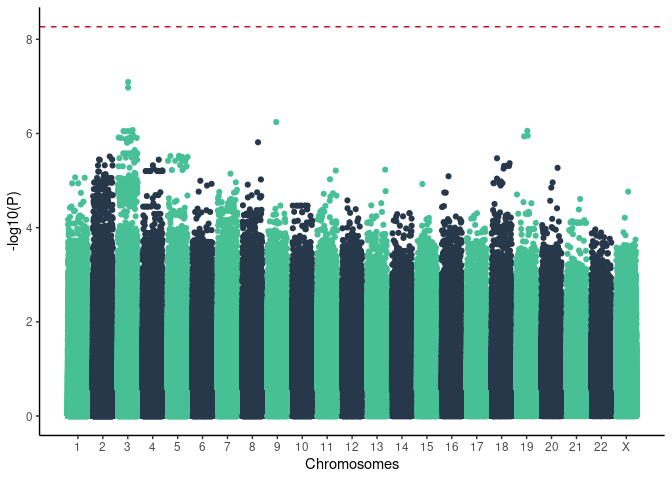
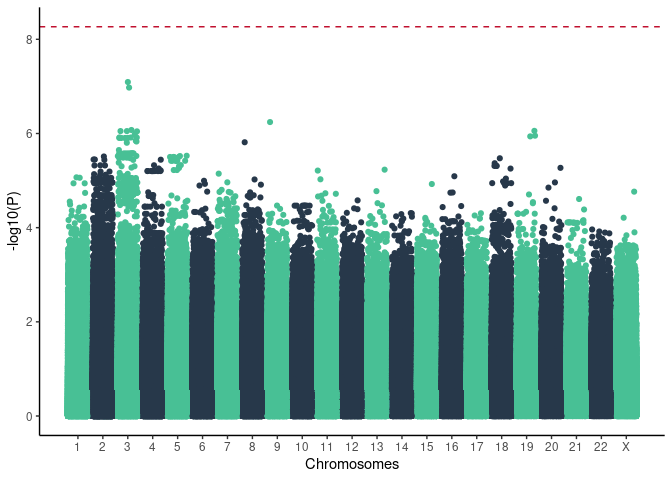
updated results

diff --git a/commonGWAS/common_gwas.md b/commonGWAS/common_gwas.md
@@ -1,19 +1,37 @@
-### 1. Common variants
+common variants
+================
 
-9243540 variants with MAF &gt; 0.01 and LD pruning (indep-pairwise 50 5
-0.05)
+Results on 1076 unrelated individuals
 
-![](common_gwas_files/figure-gfm/severe_q_manhattan_plot-1.png)<!-- -->
+    ## Joining, by = "SNP"
+    ## Joining, by = "SNP"
 
-| Gene   | SNP                  | A1  | TEST | NMISS |    OR |  STAT |     P |         q |
-|:-------|:---------------------|:----|:-----|------:|------:|------:|------:|----------:|
-| LZTFL1 | chr3\_45868036\_C\_T | T   | ADD  |   947 | 2.367 | 5.316 | 1e-07 | 0.4841316 |
-| LZTFL1 | chr3\_45868152\_C\_A | A   | ADD  |   966 | 2.379 | 5.366 | 1e-07 | 0.4841316 |
+### Severe manhattan plot
 
-<https://www.medrxiv.org/content/10.1101/2021.03.31.21254708v1>
+    ## Warning: Removed 28 rows containing missing values (geom_point).
 
-![](common_gwas_files/figure-gfm/resistance_q_manhattan_plot-1.png)<!-- -->
+![](common_gwas_files/figure-gfm/q_manhattan_plot-1.png)<!-- -->
 
-<!-- ### 2. Rare variants -->
-<!-- ```{r regenie_out, echo=F} -->
-<!-- ``` -->
+### Top 15 severe results
+
+| SYMBOL     | IMPACT   | Consequence                                      | SNP                      |   Pvalue | FDR\_BH | FDR\_BY |
+|:-----------|:---------|:-------------------------------------------------|:-------------------------|---------:|--------:|--------:|
+| CCDC32     | MODIFIER | downstream\_gene\_variant                        | chr15\_40553905\_CGT\_C  | 2.00e-06 |  0.9881 |       1 |
+| AC068633.1 | MODIFIER | intron\_variant,non\_coding\_transcript\_variant | chr3\_118226220\_A\_T    | 3.30e-06 |  0.9881 |       1 |
+| DRC1       | MODIFIER | intron\_variant                                  | chr2\_26447115\_A\_T     | 3.60e-06 |  0.9881 |       1 |
+| RIT2       | MODIFIER | intron\_variant                                  | chr18\_43077939\_G\_A    | 4.90e-06 |  0.9881 |       1 |
+| \-         | MODIFIER | intergenic\_variant                              | chr18\_43141170\_C\_T    | 5.60e-06 |  0.9881 |       1 |
+| HADHA      | MODIFIER | intron\_variant                                  | chr2\_26242159\_G\_C     | 7.50e-06 |  0.9881 |       1 |
+| DGKB       | MODIFIER | upstream\_gene\_variant                          | chr7\_14905244\_GT\_G    | 7.70e-06 |  0.9881 |       1 |
+| \-         | MODIFIER | regulatory\_region\_variant                      | chr1\_2859612\_A\_G      | 8.50e-06 |  0.9881 |       1 |
+| \-         | MODIFIER | regulatory\_region\_variant                      | chr20\_11159860\_G\_A    | 1.10e-05 |  0.9881 |       1 |
+| HADHB      | MODIFIER | intron\_variant                                  | chr2\_26258591\_G\_A     | 1.19e-05 |  0.9881 |       1 |
+| \-         | MODIFIER | intergenic\_variant                              | chr7\_45443910\_A\_ATGTG | 1.30e-05 |  0.9881 |       1 |
+| \-         | MODIFIER | intergenic\_variant                              | chr20\_40828006\_C\_T    | 1.41e-05 |  0.9881 |       1 |
+| \-         | MODIFIER | intergenic\_variant                              | chr11\_66379908\_C\_CAAA | 1.49e-05 |  0.9881 |       1 |
+| SELENOI    | MODIFIER | intron\_variant                                  | chr2\_26371642\_C\_T     | 1.86e-05 |  0.9881 |       1 |
+| AP002991.1 | MODIFIER | intron\_variant,non\_coding\_transcript\_variant | chr11\_115732655\_G\_A   | 1.86e-05 |  0.9881 |       1 |
+
+    ## Warning: Removed 18 rows containing missing values (geom_point).
+
+![](common_gwas_files/figure-gfm/manhattan_plot_resist-1.png)<!-- -->
